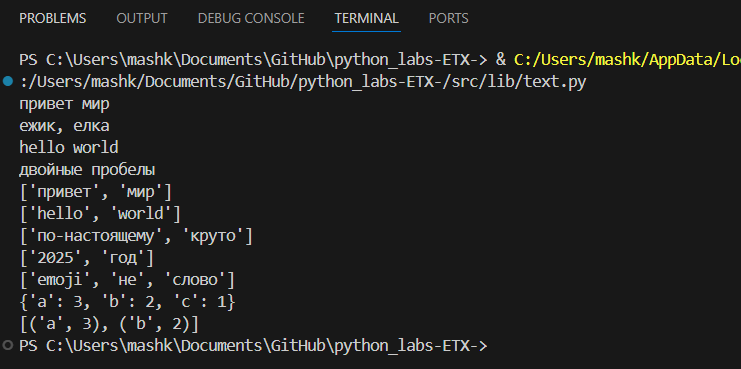
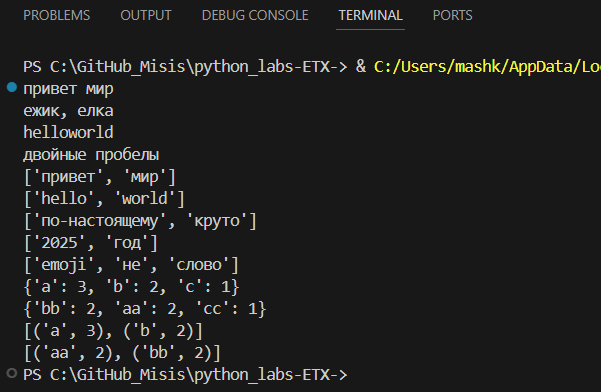
r

diff --git a/src/lab03/defsfromtext.py b/src/lab03/defsfromtext.py
@@ -46,28 +46,6 @@ def top_n(freq: dict[str, int], n: int = 5) -> list[tuple[str, int]]:
     
     return items[:2]
 
-if __name__ == "__main__":
-    print(normalize("ПрИвЕт\nМИр\t"))
-    print(normalize("ёжик, Ёлка"))
-    print(normalize("Hello\r\nWorld"))
-    print(normalize("   двойные   пробелы  "))
-    print(tokenize('привет мир'))
-    print(tokenize('hello,world!!!'))
-    print(tokenize('по-настоящему круто'))
-    print(tokenize('2025 год'))
-    print(tokenize('emoji 😀 не слово'))
-    words = ["a", "b", "a", "c", "b", "a"]
-    c_words = count_freq(words)
-    print(c_words)
-    frame = ["bb","aa","bb","aa","cc"] 
-    c_frame = count_freq(frame)
-    print(c_frame)
-    print(top_n(c_words))  
-    print(top_n(c_frame))
-    
-
-
-
 
 
 

diff --git a/src/lab03/text_stats.py b/src/lab03/text_stats.py
@@ -1,0 +1,18 @@
+import sys
+from defsfromtext import normalize,tokenize,top_n,count_freq
+
+def stats(text:str):
+    normalized_text = normalize(text)
+    splittedwords = normalized_text.split()\
+    
+    list_count = len(splittedwords)
+    unique_list_count = len(set(splittedwords))
+    top_words = top_n(normalized_text, 5)
+
+    print(f"Всего слов: {list_count}")
+    print(f"Уникальных слов: {unique_list_count}")
+    print("Топ-5:")
+    for word, count in top_words:
+        print(f"{word}:{count}")
+
+text_in = sys.stdin.read

diff --git a/src/lab 02/arrays.py b/src/lab 02/arrays.py
@@ -1,6 +1,7 @@
 def min_max(nums: list[float | int]) -> tuple[float | int, float | int]:
-    if not nums:
-     return ValueError('Список пуст')
+    if nums == []:
+        raise ValueError('Список пуст')
+    
     return tuple([min(nums), max(nums)])
 
 print(min_max([3,-1,5,5,0]))

diff --git a/README.md b/README.md
@@ -208,7 +208,7 @@ print(errorcheckandformat("  сидорова  анна   сергеевна ", 
 ```python
 import re
 
-def normalize(text: str, *, casefold: bool = True, yo2e: bool = True) -> str: #1 normalize
+def normalize(text: str, *, casefold: bool = True, yo2e: bool = True) -> str: 
     result = text
     result = result.replace('\t' , ' ').replace('\n', ' ').replace('\r',' ')
     if casefold == True:
@@ -219,15 +219,15 @@ def normalize(text: str, *, casefold: bool = True, yo2e: bool = True) -> str: #1
 
     result = result.strip()
     
-    while '  ' in result:
-        result = result.replace('  ', ' ')
+    if '  ' in result:
+        result = result.replace('  ', '')
     
     return result
 
 
-def tokenize(text: str) -> list[str]: #2 tokenize
-    symbols = r'\w+(?:-\w+)*\b'
-
+def tokenize(text: str) -> list[str]: 
+    symbols = r'\w+(?:-\w+)*\b'         # /w+ (ищет слова) ?:-\w+ (ищет слова с дефисами) 
+                                        # * (ноль и более раз дефис) \b (граница слова)
     tokens = re.findall(symbols,text)
 
     return tokens
@@ -252,12 +252,12 @@ def top_n(freq: dict[str, int], n: int = 5) -> list[tuple[str, int]]:
     items.sort(key=lambda x: (-x[1], x[0]))
     
     
-    return items[:n]
+    return items[:2]
 
 print(normalize("ПрИвЕт\nМИр\t"))
 print(normalize("ёжик, Ёлка"))
 print(normalize("Hello\r\nWorld"))
-print(normalize("  двойные   пробелы  "))
+print(normalize("   двойные   пробелы  "))
 print(tokenize('привет мир'))
 print(tokenize('hello,world!!!'))
 print(tokenize('по-настоящему круто'))
@@ -265,7 +265,11 @@ print(tokenize('2025 год'))
 print(tokenize('emoji 😀 не слово'))
 words = ["a", "b", "a", "c", "b", "a"]
 c_words = count_freq(words)
-print(c_words)  
-print(top_n(c_words, 2))
+print(c_words)
+frame = ["bb","aa","bb","aa","cc"] 
+c_frame = count_freq(frame)
+print(c_frame)
+print(top_n(c_words))  
+print(top_n(c_frame))
 ```
 ![](/images/lab%2003/text_py.png)  
